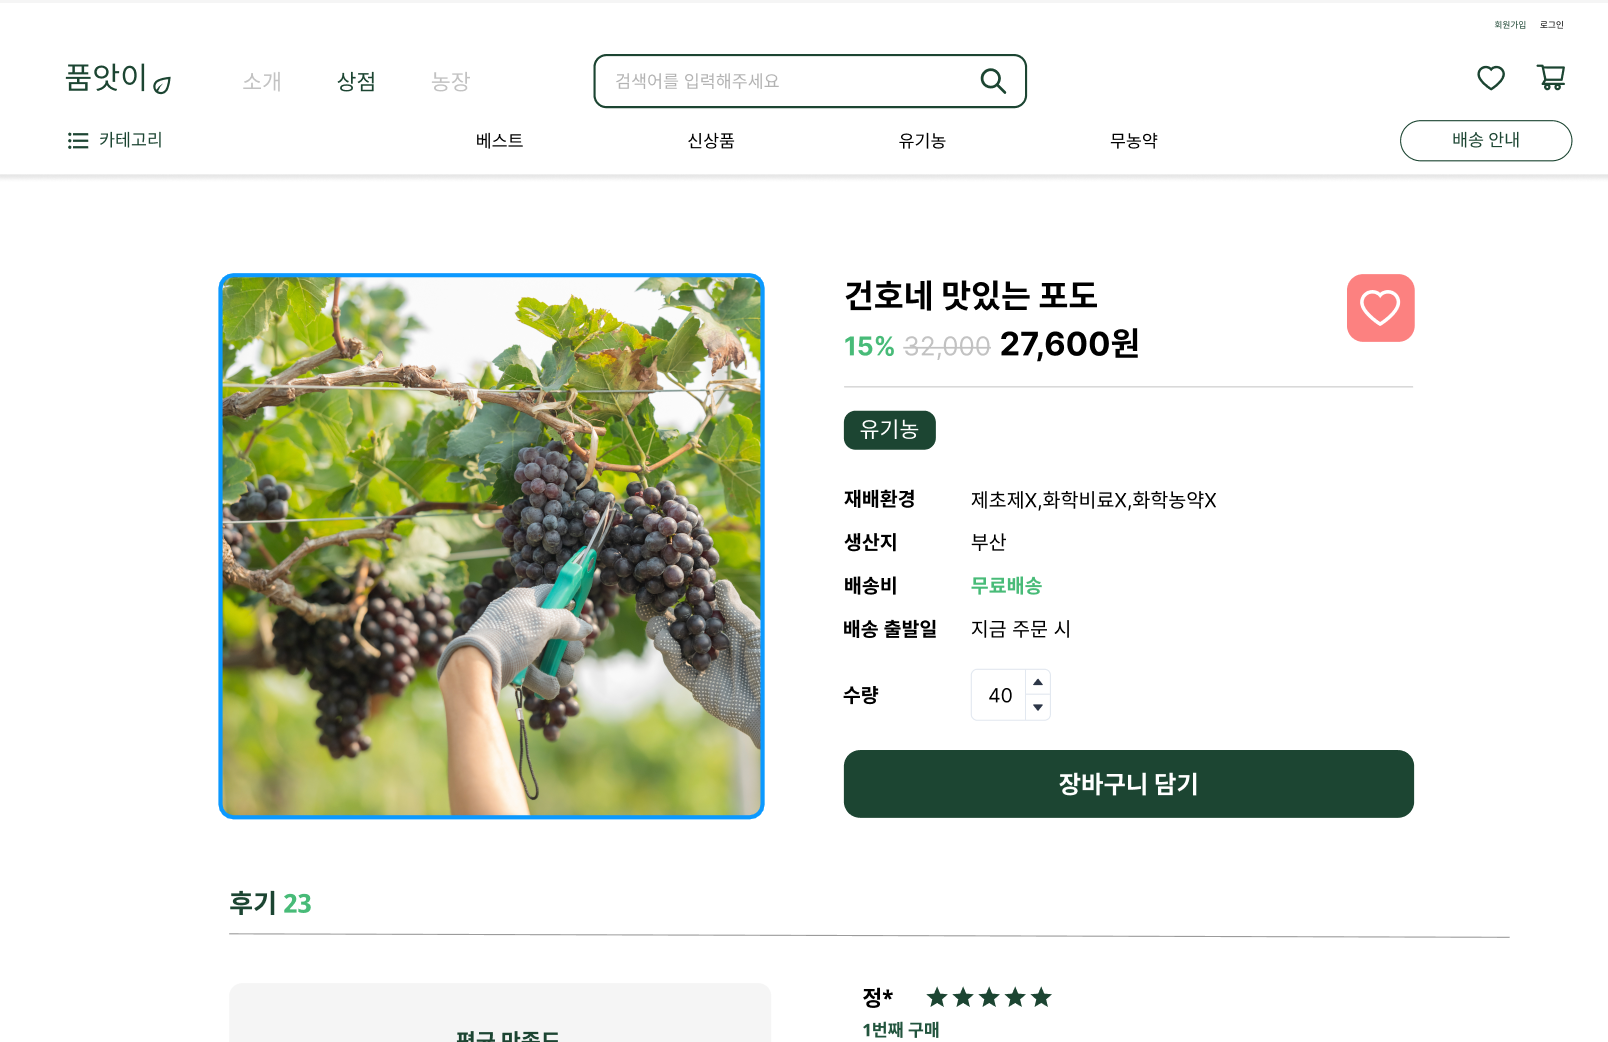
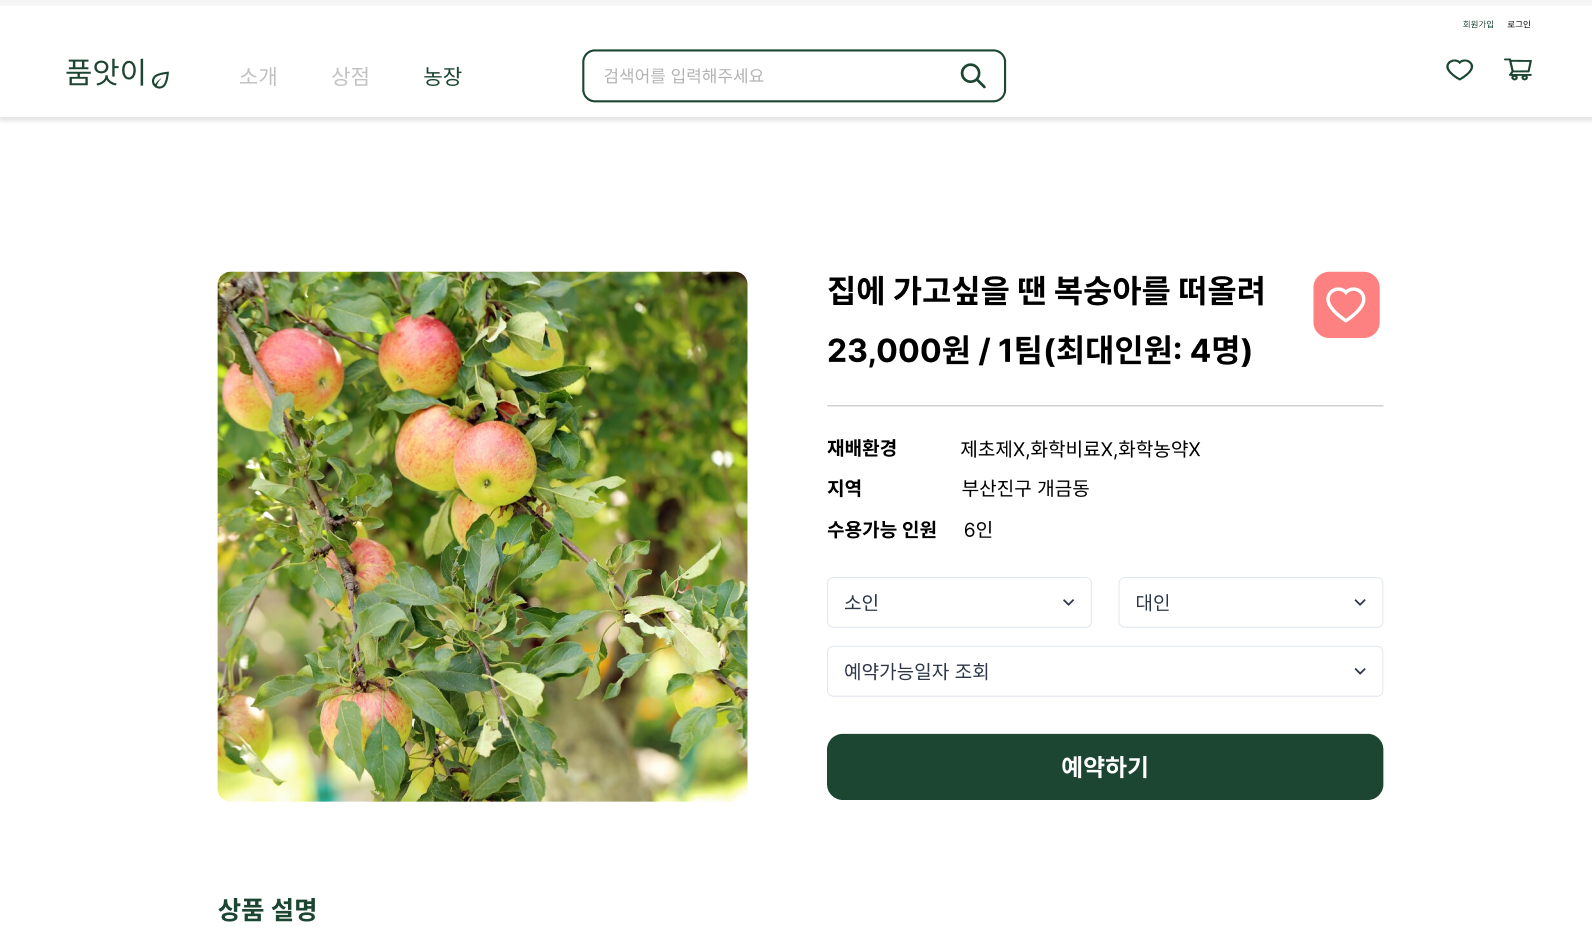
docs: product 이미지 변경

diff --git a/README.md b/README.md
@@ -280,7 +280,7 @@ naver:
 
 > 상품 도메인은 상품 정보를 관리하는 도메인입니다.
 
-![상품 도메인](docs/product-domain.png)
+![상품 도메인](docs/farm-domain.png)
 
 ### 농장 도메인
 
